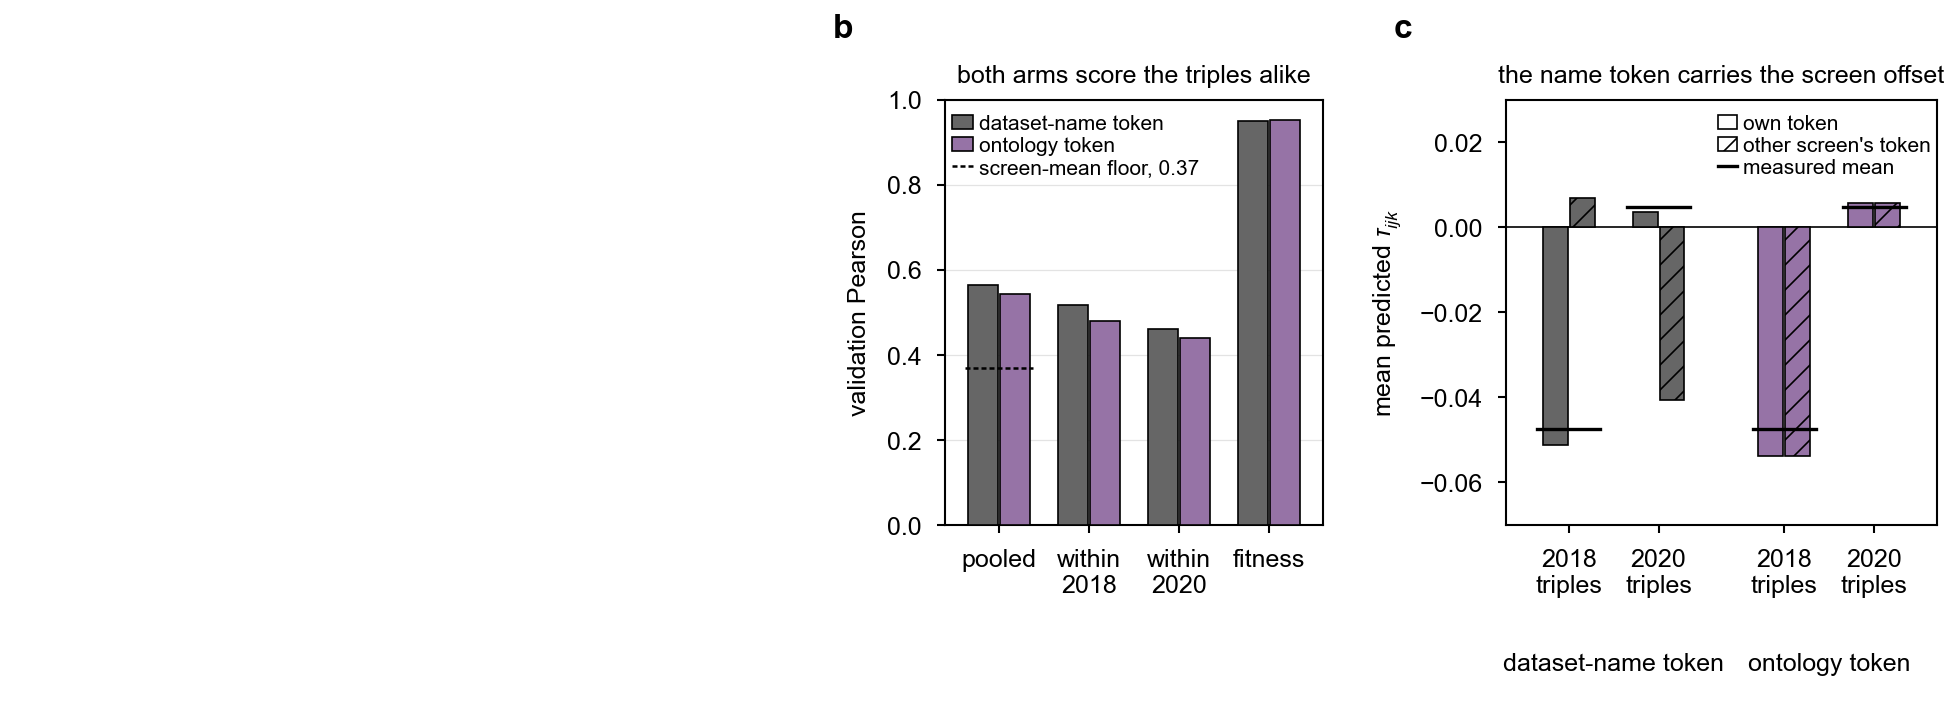
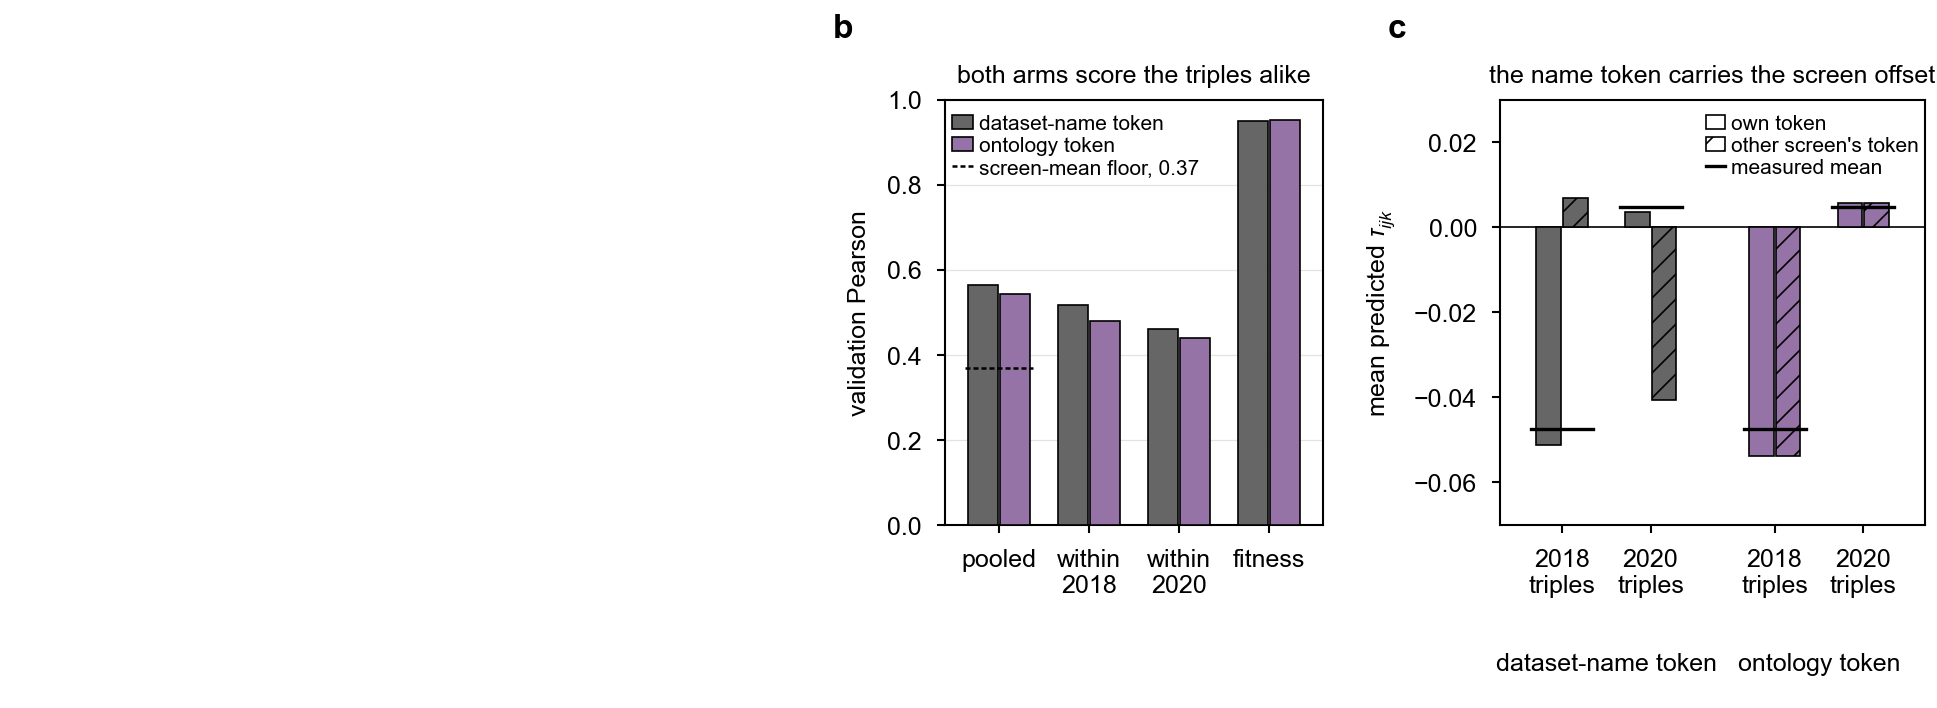
fix(030): ontology figure sheet at 164 mm so the ink-cropped export stays inside the 165 mm text block

diff --git a/experiments/030-solid-growth-multi/scripts/ontology_token_figure_030.py b/experiments/030-solid-growth-multi/scripts/ontology_token_figure_030.py
@@ -90,12 +90,12 @@ SCREENS = {"TmiKuzmin2018Dataset": "2018", "TmiKuzmin2020Dataset": "2020"}
 WINDOW = 10  # epochs averaged at the end of each run
 
 # ------------------------------------------------------------------ sheet geometry, mm
-W_MM = 165.0
+W_MM = 164.0  # the thesis text block is 165 mm; the ink-cropped export adds 1 pt a side
 H_MM = 60.0
 SLOT = (0.7, 7.0, 66.0, 52.0)  # x, y, w, h of panel a, drawn by the thesis generator
 ROW_TOP, ROW_H = 8.5, 36.0
 B_X, B_W = 80.0, 32.0
-C_X, C_W = 127.5, 36.5
+C_X, C_W = 127.0, 36.0
 GRID = "#E3E3E3"
 
 plt.rcParams.update(
